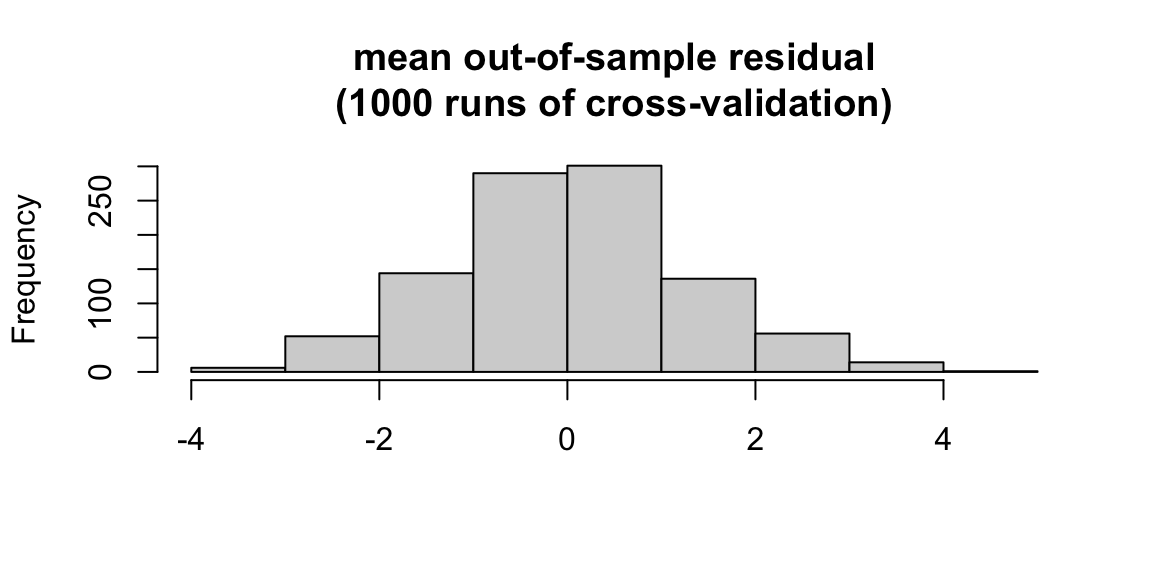
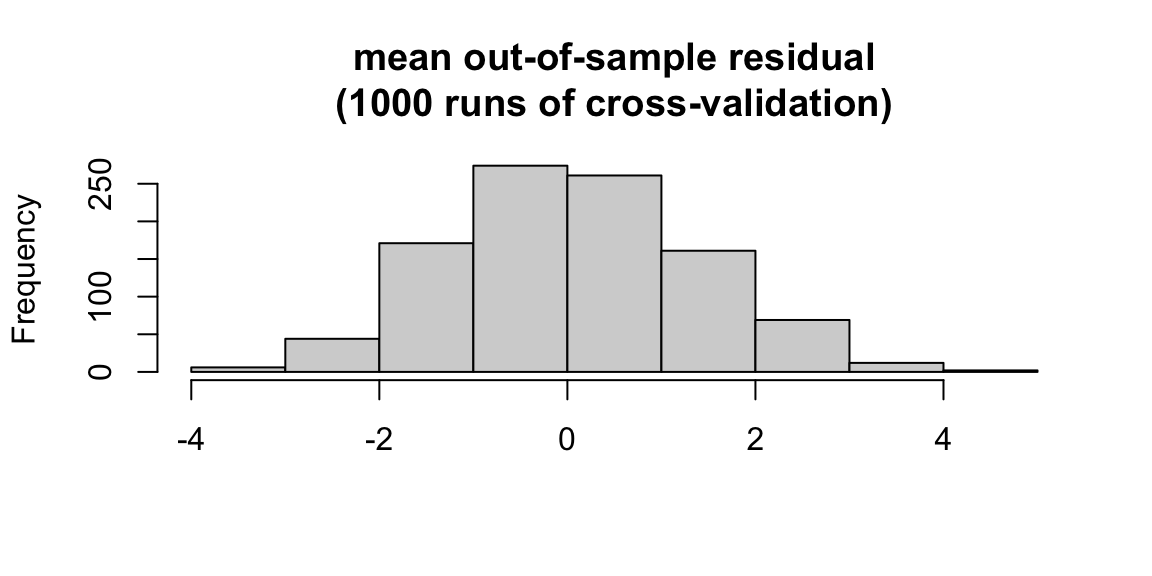
commit

diff --git a/public/post/2022-09-16-fundamentals-i-economics-forces/index.html b/public/post/2022-09-16-fundamentals-i-economics-forces/index.html
@@ -72,9 +72,10 @@
 <h1>Real Disposable Income Quarterly</h1>
 <p><br></p>
 <p>First, I examine the percent change in disposable income and how that correlates with the percentage of the votes that the incumbent party receives for each election year from 1964 to 2020.</p>
-<p><img src="http://example.org/post/2022-09-16-fundamentals-i-economics-forces/index_files/figure-html/unnamed-chunk-1-1.png" width="60%" style="display: block; margin: auto;" /></p>
+<p><img src="http://example.org/post/2022-09-16-fundamentals-i-economics-forces/index_files/figure-html/unnamed-chunk-1-1.png" width="60%" style="display: block; margin: auto;" />
+We can see that for most of the time, a positive percent change in disposable income results in the incumbent party receiving more votes.</p>
+<p><br></p>
 <p>The correlation is found to be:</p>
-<pre class="r"><code>summary(lm_rdi)</code></pre>
 <pre><code>## 
 ## Call:
 ## lm(formula = H_incumbent_party_majorvote_pct ~ DSPIC_change_pct, 
@@ -95,11 +96,16 @@
 ## Multiple R-squared:  0.05577,    Adjusted R-squared:  0.02321 
 ## F-statistic: 1.713 on 1 and 29 DF,  p-value: 0.2009</code></pre>
 <pre><code>## [1] 0.05576812</code></pre>
+<p>The following graph shows the incumbent party vote percentage when compared to the predicted incumbent party vote percentage for each year:</p>
 <p><img src="http://example.org/post/2022-09-16-fundamentals-i-economics-forces/index_files/figure-html/unnamed-chunk-6-1.png" width="70%" style="display: block; margin: auto;" /></p>
+<p>Below is the mean out-of-sample residuals, which validates our model:</p>
 <p><img src="http://example.org/post/2022-09-16-fundamentals-i-economics-forces/index_files/figure-html/unnamed-chunk-8-1.png" width="70%" style="display: block; margin: auto;" /></p>
-<pre><code>## [1] 1.150346</code></pre>
-<p><img src="http://example.org/post/2022-09-16-fundamentals-i-economics-forces/index_files/figure-html/unnamed-chunk-10-1.png" width="60%" style="display: block; margin: auto;" /></p>
-<pre class="r"><code>summary(lm_unr)</code></pre>
+<pre><code>## [1] 1.0963</code></pre>
+<p>Next, I examine the percent change in unemployment rate and how that correlates with the percentage of the votes that the incumbent party receives for each election year from 1964 to 2020.</p>
+<p><img src="http://example.org/post/2022-09-16-fundamentals-i-economics-forces/index_files/figure-html/unnamed-chunk-10-1.png" width="60%" style="display: block; margin: auto;" />
+There does not seem to be a strong correlation between unemployment rate and the percentage of votes the incumbent party receives. This model seems to go against intuition, since one would suppose that more unemployment would cause constituents to be unhappy with the current government.</p>
+<p><br></p>
+<p>The correlation is found to be:</p>
 <pre><code>## 
 ## Call:
 ## lm(formula = H_incumbent_party_majorvote_pct ~ UNRATE, data = data3)
@@ -120,8 +126,9 @@
 ## F-statistic: 5.263 on 1 and 35 DF,  p-value: 0.0279</code></pre>
 <pre><code>## [1] 0.1307167</code></pre>
 <p><img src="http://example.org/post/2022-09-16-fundamentals-i-economics-forces/index_files/figure-html/unnamed-chunk-15-1.png" width="70%" style="display: block; margin: auto;" /></p>
+<p>Below is the mean out-of-sample residuals:</p>
 <p><img src="http://example.org/post/2022-09-16-fundamentals-i-economics-forces/index_files/figure-html/unnamed-chunk-17-1.png" width="70%" style="display: block; margin: auto;" /></p>
-<pre><code>## [1] 1.011826</code></pre>
+<pre><code>## [1] 1.069193</code></pre>
 </div>
 
 
@@ -139,7 +146,7 @@
         		<footer>
 			
 			<span>
-			&copy; <time datetime="2022-09-19 13:49:05.465303 -0400 EDT m=&#43;0.260028069">2022</time> . Made with <a href='https://gohugo.io'>Hugo</a> using the <a href='https://github.com/EmielH/tale-hugo/'>Tale</a> theme.
+			&copy; <time datetime="2022-09-19 13:53:21.327301 -0400 EDT m=&#43;0.338470987">2022</time> . Made with <a href='https://gohugo.io'>Hugo</a> using the <a href='https://github.com/EmielH/tale-hugo/'>Tale</a> theme.
 			</span>
 		</footer>
 

diff --git a/content/post/2022-09-16-fundamentals-i-economics-forces/index.html b/content/post/2022-09-16-fundamentals-i-economics-forces/index.html
@@ -17,9 +17,10 @@ tags: []
 <h1>Real Disposable Income Quarterly</h1>
 <p><br></p>
 <p>First, I examine the percent change in disposable income and how that correlates with the percentage of the votes that the incumbent party receives for each election year from 1964 to 2020.</p>
-<p><img src="{{< blogdown/postref >}}index_files/figure-html/unnamed-chunk-1-1.png" width="60%" style="display: block; margin: auto;" /></p>
+<p><img src="{{< blogdown/postref >}}index_files/figure-html/unnamed-chunk-1-1.png" width="60%" style="display: block; margin: auto;" />
+We can see that for most of the time, a positive percent change in disposable income results in the incumbent party receiving more votes.</p>
+<p><br></p>
 <p>The correlation is found to be:</p>
-<pre class="r"><code>summary(lm_rdi)</code></pre>
 <pre><code>## 
 ## Call:
 ## lm(formula = H_incumbent_party_majorvote_pct ~ DSPIC_change_pct, 
@@ -40,11 +41,16 @@ tags: []
 ## Multiple R-squared:  0.05577,    Adjusted R-squared:  0.02321 
 ## F-statistic: 1.713 on 1 and 29 DF,  p-value: 0.2009</code></pre>
 <pre><code>## [1] 0.05576812</code></pre>
+<p>The following graph shows the incumbent party vote percentage when compared to the predicted incumbent party vote percentage for each year:</p>
 <p><img src="{{< blogdown/postref >}}index_files/figure-html/unnamed-chunk-6-1.png" width="70%" style="display: block; margin: auto;" /></p>
+<p>Below is the mean out-of-sample residuals, which validates our model:</p>
 <p><img src="{{< blogdown/postref >}}index_files/figure-html/unnamed-chunk-8-1.png" width="70%" style="display: block; margin: auto;" /></p>
-<pre><code>## [1] 1.150346</code></pre>
-<p><img src="{{< blogdown/postref >}}index_files/figure-html/unnamed-chunk-10-1.png" width="60%" style="display: block; margin: auto;" /></p>
-<pre class="r"><code>summary(lm_unr)</code></pre>
+<pre><code>## [1] 1.0963</code></pre>
+<p>Next, I examine the percent change in unemployment rate and how that correlates with the percentage of the votes that the incumbent party receives for each election year from 1964 to 2020.</p>
+<p><img src="{{< blogdown/postref >}}index_files/figure-html/unnamed-chunk-10-1.png" width="60%" style="display: block; margin: auto;" />
+There does not seem to be a strong correlation between unemployment rate and the percentage of votes the incumbent party receives. This model seems to go against intuition, since one would suppose that more unemployment would cause constituents to be unhappy with the current government.</p>
+<p><br></p>
+<p>The correlation is found to be:</p>
 <pre><code>## 
 ## Call:
 ## lm(formula = H_incumbent_party_majorvote_pct ~ UNRATE, data = data3)
@@ -65,6 +71,7 @@ tags: []
 ## F-statistic: 5.263 on 1 and 35 DF,  p-value: 0.0279</code></pre>
 <pre><code>## [1] 0.1307167</code></pre>
 <p><img src="{{< blogdown/postref >}}index_files/figure-html/unnamed-chunk-15-1.png" width="70%" style="display: block; margin: auto;" /></p>
+<p>Below is the mean out-of-sample residuals:</p>
 <p><img src="{{< blogdown/postref >}}index_files/figure-html/unnamed-chunk-17-1.png" width="70%" style="display: block; margin: auto;" /></p>
-<pre><code>## [1] 1.011826</code></pre>
+<pre><code>## [1] 1.069193</code></pre>
 </div>

diff --git a/public/index.html b/public/index.html
@@ -94,7 +94,7 @@ Real Disposable Income Quarterly First, I examine the percent change in disposab
         		<footer>
 			
 			<span>
-			&copy; <time datetime="2022-09-19 13:49:05.452847 -0400 EDT m=&#43;0.247571644">2022</time> . Made with <a href='https://gohugo.io'>Hugo</a> using the <a href='https://github.com/EmielH/tale-hugo/'>Tale</a> theme.
+			&copy; <time datetime="2022-09-19 13:53:21.306626 -0400 EDT m=&#43;0.317796663">2022</time> . Made with <a href='https://gohugo.io'>Hugo</a> using the <a href='https://github.com/EmielH/tale-hugo/'>Tale</a> theme.
 			</span>
 		</footer>
 

diff --git a/public/post/2022-09-10-election-analysis-introduction/index.html b/public/post/2022-09-10-election-analysis-introduction/index.html
@@ -96,7 +96,7 @@ As determined by the key on the right, the GOP two-party vote share margin in Mi
         		<footer>
 			
 			<span>
-			&copy; <time datetime="2022-09-19 13:49:06.221564 -0400 EDT m=&#43;1.016265641">2022</time> . Made with <a href='https://gohugo.io'>Hugo</a> using the <a href='https://github.com/EmielH/tale-hugo/'>Tale</a> theme.
+			&copy; <time datetime="2022-09-19 13:53:22.223776 -0400 EDT m=&#43;1.234919686">2022</time> . Made with <a href='https://gohugo.io'>Hugo</a> using the <a href='https://github.com/EmielH/tale-hugo/'>Tale</a> theme.
 			</span>
 		</footer>
 

diff --git a/public/post/index.html b/public/post/index.html
@@ -89,7 +89,7 @@ Real Disposable Income Quarterly First, I examine the percent change in disposab
         		<footer>
 			
 			<span>
-			&copy; <time datetime="2022-09-19 13:49:05.451732 -0400 EDT m=&#43;0.246457146">2022</time> . Made with <a href='https://gohugo.io'>Hugo</a> using the <a href='https://github.com/EmielH/tale-hugo/'>Tale</a> theme.
+			&copy; <time datetime="2022-09-19 13:53:21.306538 -0400 EDT m=&#43;0.317708693">2022</time> . Made with <a href='https://gohugo.io'>Hugo</a> using the <a href='https://github.com/EmielH/tale-hugo/'>Tale</a> theme.
 			</span>
 		</footer>
 

diff --git a/public/categories/index.html b/public/categories/index.html
@@ -57,7 +57,7 @@
         		<footer>
 			
 			<span>
-			&copy; <time datetime="2022-09-19 13:49:05.456514 -0400 EDT m=&#43;0.251238935">2022</time> . Made with <a href='https://gohugo.io'>Hugo</a> using the <a href='https://github.com/EmielH/tale-hugo/'>Tale</a> theme.
+			&copy; <time datetime="2022-09-19 13:53:21.318972 -0400 EDT m=&#43;0.330142648">2022</time> . Made with <a href='https://gohugo.io'>Hugo</a> using the <a href='https://github.com/EmielH/tale-hugo/'>Tale</a> theme.
 			</span>
 		</footer>
 

diff --git a/public/tags/index.html b/public/tags/index.html
@@ -57,7 +57,7 @@
         		<footer>
 			
 			<span>
-			&copy; <time datetime="2022-09-19 13:49:05.459965 -0400 EDT m=&#43;0.254689689">2022</time> . Made with <a href='https://gohugo.io'>Hugo</a> using the <a href='https://github.com/EmielH/tale-hugo/'>Tale</a> theme.
+			&copy; <time datetime="2022-09-19 13:53:21.325395 -0400 EDT m=&#43;0.336565534">2022</time> . Made with <a href='https://gohugo.io'>Hugo</a> using the <a href='https://github.com/EmielH/tale-hugo/'>Tale</a> theme.
 			</span>
 		</footer>
 
